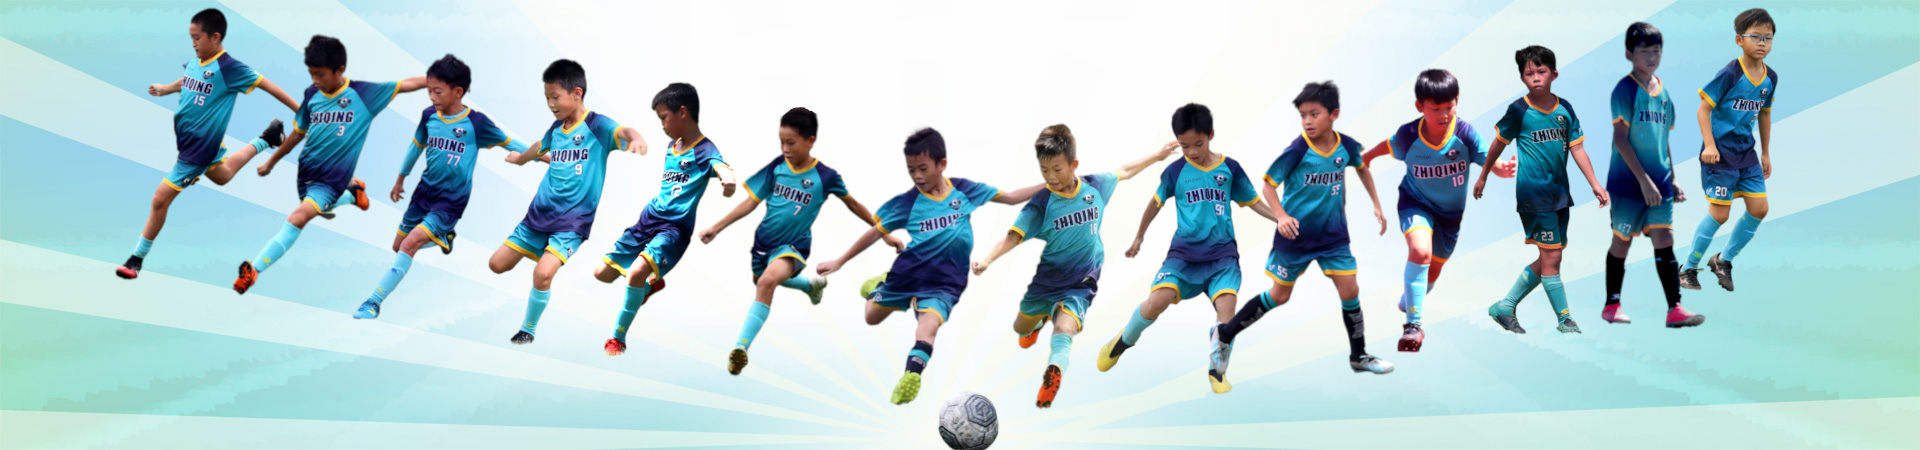
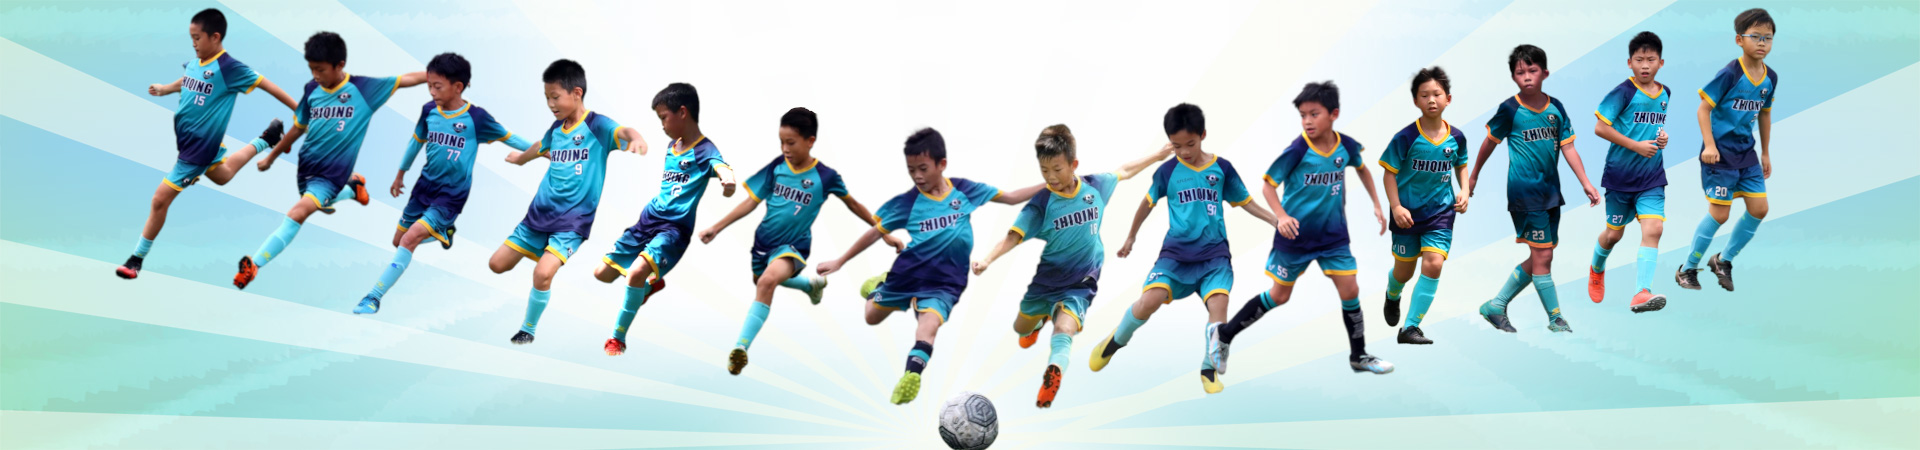
optimise kv layout

diff --git a/css/landing-page.css b/css/landing-page.css
@@ -121,9 +121,9 @@ header.masthead h1 {
 
 @media (max-width: 768px) {
     header.masthead {
-        background: url("../img/bg-masthead0.jpg") no-repeat center 60px;
-        background-size: cover;
-        padding-top: 3rem;
+        background: url(../img/bg-masthead0.jpg) no-repeat center 60px;
+        background-size: contain;
+        padding-top: 5rem;
         padding-bottom: 7rem;
         margin-top: 1rem;
     }
